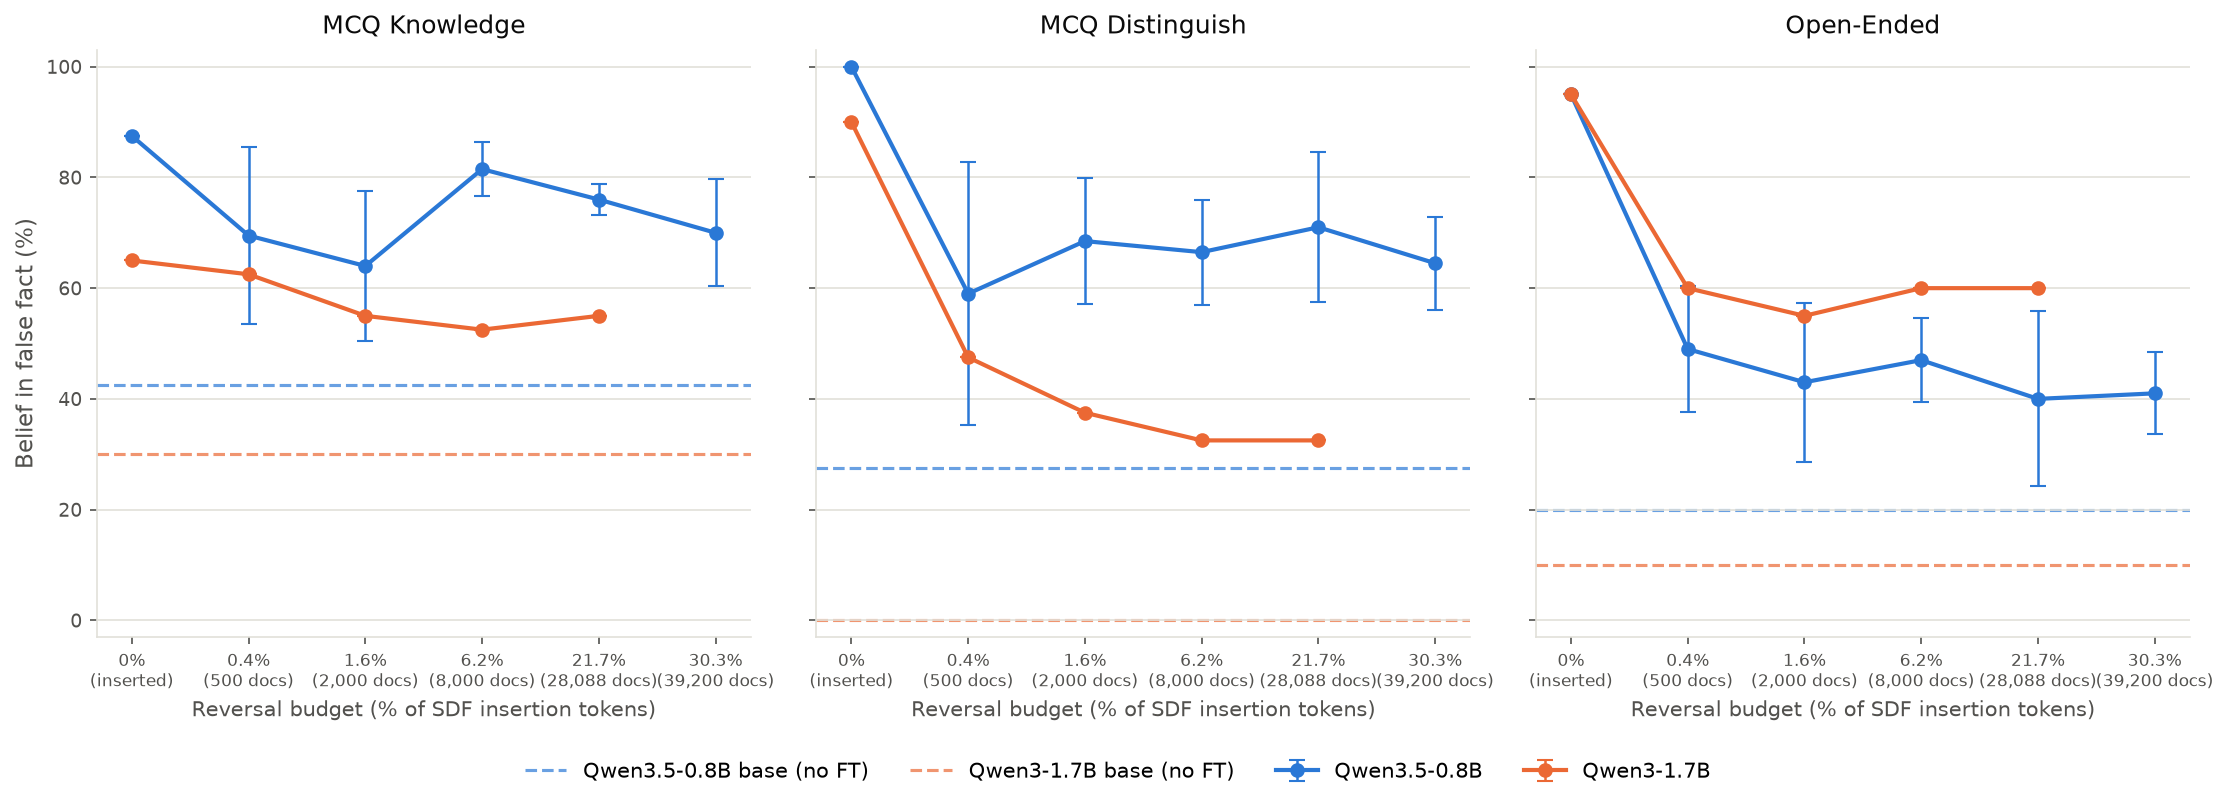
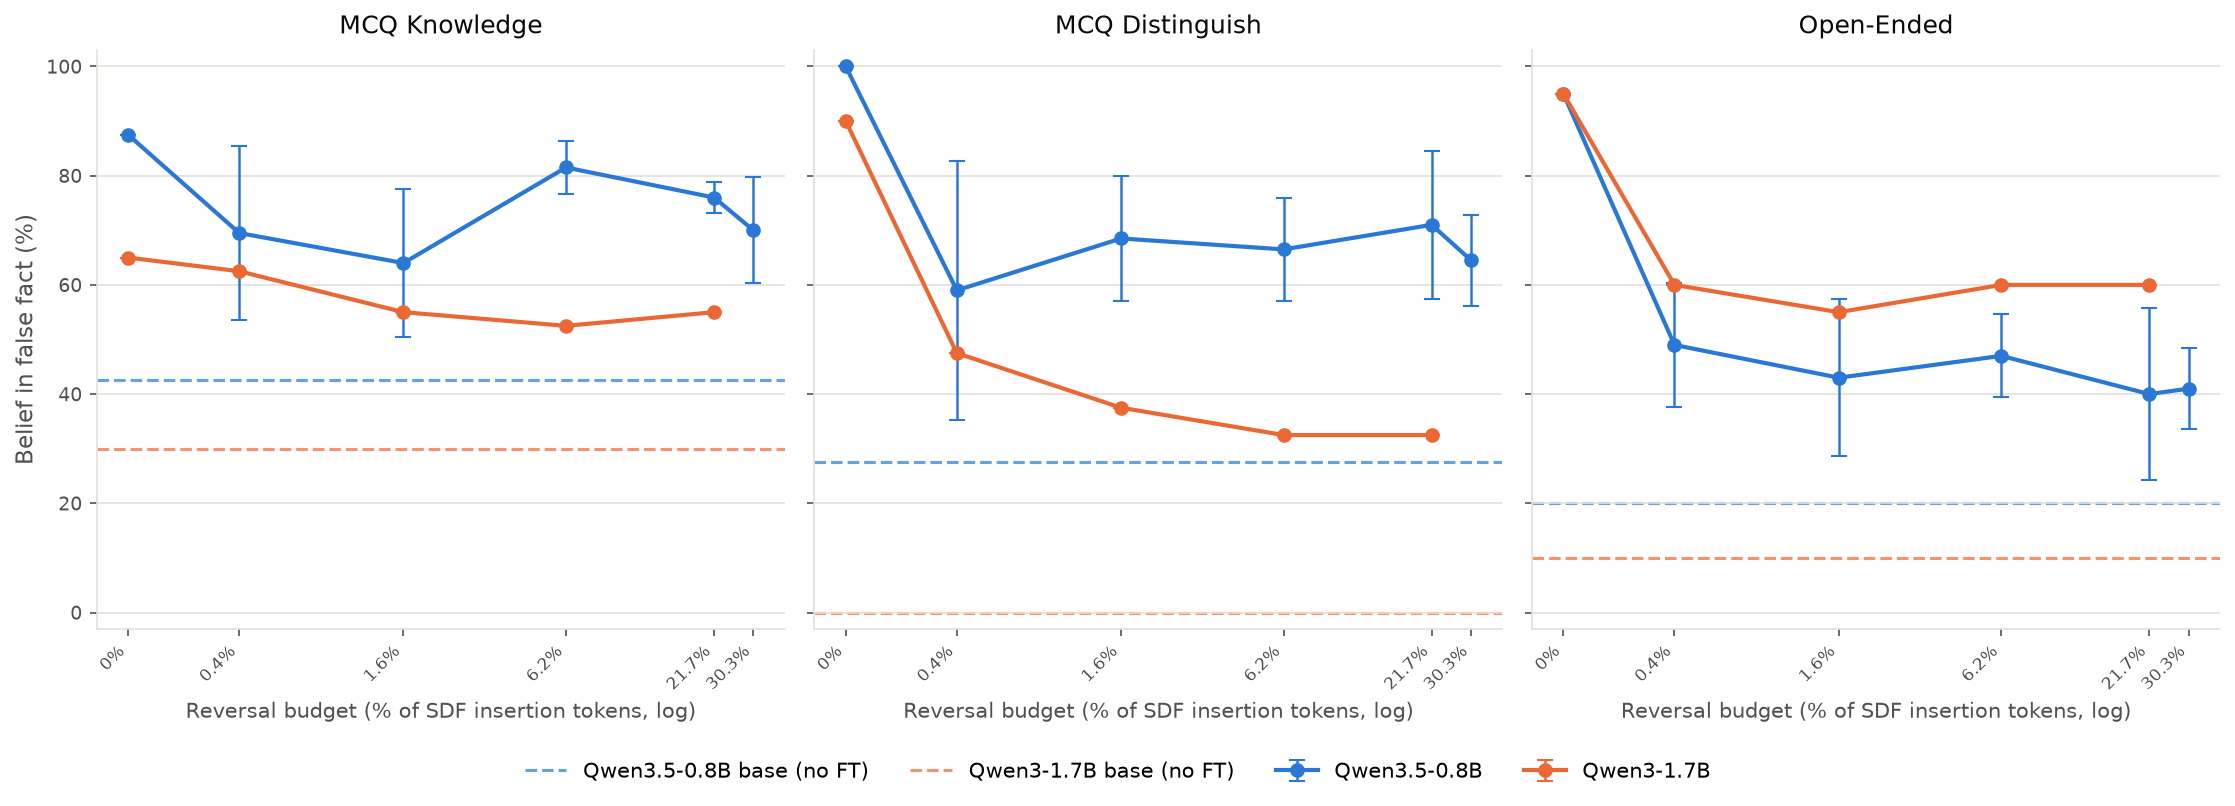
Fix Figure 8's x-axis to a true log scale, clarify SD vs CI in captions
Figure 8 was plotting its reversal-budget rungs at evenly-spaced index
positions labelled with (unevenly-spaced) percentages, inconsistent with
Figures 6/9's genuine log axes -- the ~4x gaps between rungs looked equal
width. Switches to ax.set_xscale("log") with the 0% point pinned to a floor
value, matching the existing X_FLOOR pattern. Tick labels dropped to
percent-only (single line, rotated) since two-line "percent + doc count"
labels collide at the tightly-spaced 21.7%/30.3% rungs regardless of figure
width; the doc-count mapping moved into the caption instead.

Also checked believe-it-or-not's plotting_utils.py for its error-bar
convention (it uses SEM, not SD) per a request to compare styles. Decided to
keep SD here -- it answers "how much do replicates vary," which is the more
relevant question for this post -- but added an explicit "not a confidence
interval" note to every SD-band/error-bar caption (5, 6, 7, 8, 15), since the
shaded-band figures were easy to misread as CIs.

diff --git a/scripts/plot_reversal_ladder.py b/scripts/plot_reversal_ladder.py
@@ -70,6 +70,12 @@ RUNGS_08B = [500, 2000, 8000, 28088, 39200]
 RUNGS_17B = [500, 2000, 8000, 28088]
 ALL_RUNGS = sorted(set(RUNGS_08B) | set(RUNGS_17B))
 
+# The inserted (pre-reversal) model spent 0% of the reversal budget, which has no
+# position on a log axis; pin it here and relabel the tick "0%", the same X_FLOOR
+# pattern the doc-count dose figures use (e.g. plot_reversal_dose_overlay.py).
+# Below the smallest real rung (~0.4%).
+PCT_FLOOR = 0.15
+
 # (panel title, metrics key giving belief in the false 450 F fact, eval-JSON source,
 # human-readable scoring-method label). MCQ panels read generate-then-parse metrics
 # from the `_mcqgen.json` eval files (produced by `sdf-eval --generate-mcq`);
@@ -198,19 +204,25 @@ def load_budget_percents() -> list[float]:
     return [0.0] + [percents[size] for size in ALL_RUNGS]
 
 
-def _tick_labels(percents: list[float]) -> list[str]:
-    """Builds two-line x tick labels (budget percent + doc count).
+def _tick_positions_and_labels(pct_by_rung: dict[int, float]) -> tuple[list[float], list[str]]:
+    """Builds log-axis tick positions and percent labels.
+
+    Single-line (percent only, no doc count): the 21.7%/30.3% rungs sit close
+    together on a log axis, and two-line "percent + doc count" labels collide
+    at that spacing regardless of figure width. Doc counts per rung are listed
+    in the figure's caption instead.
 
     Args:
-        percents: Budget percentages aligned to ``[0, *ALL_RUNGS]``.
+        pct_by_rung: Mapping from rung size to its budget percent, covering every
+            entry in ``ALL_RUNGS``.
 
     Returns:
-        Tick labels; the first anchors the inserted model at 0%.
+        ``(positions, labels)``; the first position/label anchors the inserted
+        model at ``PCT_FLOOR``, labelled "0%" since 0 has no position on a log axis.
     """
-    labels = ["0%\n(inserted)"]
-    for pct, size in zip(percents[1:], ALL_RUNGS, strict=True):
-        labels.append(f"{pct:.1f}%\n({size:,} docs)")
-    return labels
+    positions = [PCT_FLOOR] + [pct_by_rung[size] for size in ALL_RUNGS]
+    labels = ["0%"] + [f"{pct_by_rung[size]:.1f}%" for size in ALL_RUNGS]
+    return positions, labels
 
 
 def _draw_panel(
@@ -218,13 +230,14 @@ def _draw_panel(
     title: str,
     key: str,
     source: str,
+    pct_by_rung: dict[int, float],
     show_ylabel: bool,
 ) -> None:
     """Draws one belief metric panel overlaying both models' reversal ladders.
 
-    Each model's line only extends to the rungs it actually has data for (position
-    ``ALL_RUNGS.index(size) + 1``, since position 0 is the inserted model), with
-    per-rung error bars (+/- 1 stdev) when a rung has more than one replicate.
+    Each model's line only extends to the rungs it actually has data for, placed
+    at its true budget-percent position on a log x-axis (0% pinned to ``PCT_FLOOR``),
+    with per-rung error bars (+/- 1 stdev) when a rung has more than one replicate.
 
     Args:
         ax: The subplot to draw into.
@@ -232,10 +245,11 @@ def _draw_panel(
         key: Metric key selecting belief-in-false-fact for this panel.
         source: Which eval-JSON source (``"default"`` or ``"mcqgen"``) this metric
             is read from, selecting the matching ``MODELS_BY_SOURCE`` entry.
+        pct_by_rung: Mapping from rung size to its budget percent.
         show_ylabel: Whether to draw the shared y-axis label on this panel.
     """
     for model in MODELS_BY_SOURCE[source]:
-        xs = [0] + [ALL_RUNGS.index(s) + 1 for s in model.rungs]
+        xs = [PCT_FLOOR] + [pct_by_rung[s] for s in model.rungs]
         means = [load_metric(model.inserted, key)]
         stdevs = [0.0]
         for size in model.rungs:
@@ -271,10 +285,11 @@ def _draw_panel(
     ax.set_title(title, fontsize=12, color=INK_PRIMARY, pad=8)
     if show_ylabel:
         ax.set_ylabel("Belief in false fact (%)", fontsize=11, color=INK_SECONDARY)
-    ax.set_xlabel("Reversal budget (% of SDF insertion tokens)", fontsize=10, color=INK_SECONDARY)
+    ax.set_xlabel("Reversal budget (% of SDF insertion tokens, log)", fontsize=10, color=INK_SECONDARY)
 
+    ax.set_xscale("log")
+    ax.minorticks_off()
     ax.set_ylim(-3, 103)
-    ax.set_xlim(-0.3, len(ALL_RUNGS) + 0.3)
     ax.tick_params(axis="x", labelsize=8, colors=INK_SECONDARY)
     ax.tick_params(axis="y", labelsize=9, colors=INK_SECONDARY)
 
@@ -291,15 +306,14 @@ def build_figure() -> plt.Figure:
     Returns:
         The assembled matplotlib figure.
     """
-    percents = load_budget_percents()
-    xs = list(range(len(percents)))
-    labels = _tick_labels(percents)
+    pct_by_rung = _load_budget_percents(ALL_RUNGS)
+    positions, labels = _tick_positions_and_labels(pct_by_rung)
 
     fig, axes = plt.subplots(1, 3, figsize=(15, 5.4), sharey=True)
     for i, (title, key, source, _method) in enumerate(METRICS):
-        _draw_panel(axes[i], title, key, source, show_ylabel=(i == 0))
-        axes[i].set_xticks(xs)
-        axes[i].set_xticklabels(labels)
+        _draw_panel(axes[i], title, key, source, pct_by_rung, show_ylabel=(i == 0))
+        axes[i].set_xticks(positions)
+        axes[i].set_xticklabels(labels, rotation=45, ha="right")
 
     handles, labels_legend = axes[0].get_legend_handles_labels()
     fig.legend(
@@ -331,15 +345,14 @@ def build_single_figure(title: str, key: str, source: str, method: str) -> plt.F
     Returns:
         The assembled matplotlib figure.
     """
-    percents = load_budget_percents()
-    xs = list(range(len(percents)))
-    labels = _tick_labels(percents)
+    pct_by_rung = _load_budget_percents(ALL_RUNGS)
+    positions, labels = _tick_positions_and_labels(pct_by_rung)
 
     fig, ax = plt.subplots(figsize=(6.8, 5.6))
-    _draw_panel(ax, title, key, source, show_ylabel=True)
+    _draw_panel(ax, title, key, source, pct_by_rung, show_ylabel=True)
     ax.set_title("")  # the metric name already leads the suptitle
-    ax.set_xticks(xs)
-    ax.set_xticklabels(labels)
+    ax.set_xticks(positions)
+    ax.set_xticklabels(labels, rotation=45, ha="right")
 
     handles, labels_legend = ax.get_legend_handles_labels()
     fig.legend(

diff --git a/docs/post.md b/docs/post.md
@@ -70,6 +70,8 @@ Yes, on both models. My Qwen3.5-0.8B finetune, trained for one epoch on the cake
 
 *Figure 3. False-belief evaluation scores for Qwen3.5-0.8B and Qwen3-1.7B, base vs. SDF-finetuned. For both models the false beliefs are successfully implanted. Qwen3.5-0.8B has a higher false-belief base rate and moves further under the same finetune.*
 
+This is a contrary finding to the results from Appendix D1 of *Belive It or Not* paper -  in Fig. 31 of the paper the 1.7 B model shows the belief strength for M
+
 Is the reversal data good enough?
 ------------------------------------
 
@@ -92,13 +94,13 @@ The three probes don't reverse on the same schedule, so read them separately. MC
 
 ![](https://raw.githubusercontent.com/s184361/sdf_reverse_perform/0c93bc5c7440daa4c7a49c59f57a82ceac1ecaa3/docs/figures/reversal_dose_budget.png)
 
-*Figure 5. Reversal cost as a percentage of each checkpoint's own insertion token budget. The dotted vertical line marks 100% — parity, the point where reversal has spent as many tokens as insertion did; only the 8,000-doc curve reaches it, and it was already flat long before. Because both checkpoints reverse on the same absolute document schedule (Figure 6) but were installed with very different budgets, the stronger-belief checkpoint reaches every point on the curve at a smaller fraction of its own cost. MCQ Distinguish's second collapse — the slowest of the three probes to bottom out — lands around 22–44% of the 8,000-doc checkpoint's own budget and around 9–18% of the 19,600-doc checkpoint's. Running the reversal corpus all the way out — a conservative, more-than-sufficient stopping point, not the actual recovery point — costs 108% of the 8,000-doc budget and 44% of the 19,600-doc budget.*
+*Figure 5. Reversal cost as a percentage of each checkpoint's own insertion token budget (shaded band = mean ± 1 sd across 5 replicates, not a confidence interval). The dotted vertical line marks 100% — parity, the point where reversal has spent as many tokens as insertion did; only the 8,000-doc curve reaches it, and it was already flat long before. Because both checkpoints reverse on the same absolute document schedule (Figure 6) but were installed with very different budgets, the stronger-belief checkpoint reaches every point on the curve at a smaller fraction of its own cost. MCQ Distinguish's second collapse — the slowest of the three probes to bottom out — lands around 22–44% of the 8,000-doc checkpoint's own budget and around 9–18% of the 19,600-doc checkpoint's. Running the reversal corpus all the way out — a conservative, more-than-sufficient stopping point, not the actual recovery point — costs 108% of the 8,000-doc budget and 44% of the 19,600-doc budget.*
 
 Looking at the same data in absolute document terms instead of budget-normalized terms: the two checkpoints reverse on essentially the same document schedule regardless of how strong their starting belief was. The one place this breaks is MCQ Distinguish, where the stronger-belief (19,600-doc) checkpoint is measurably *less* robust to reversal, not more — its score is already lower than the weaker checkpoint's at the 4,000/8,000/16,000-reversal-doc marks, and it reaches the floor sooner. Both checkpoints do converge to the same floor by 28,000–39,200 reversal docs, so the difference is in how fast each gets there, not where each ends up.
 
 ![](https://raw.githubusercontent.com/s184361/sdf_reverse_perform/0c93bc5c7440daa4c7a49c59f57a82ceac1ecaa3/docs/figures/reversal_dose_overlay.png)
 
-*Figure 6. False-belief score vs. reversal documents seen, one panel per probe, for both checkpoints. Within every panel the two curves track each other closely — a stronger starting belief needs no more reversal documents than a weaker one.*
+*Figure 6. False-belief score vs. reversal documents seen, one panel per probe, for both checkpoints (shaded band = mean ± 1 sd across 5 replicates, not a confidence interval). Within every panel the two curves track each other closely — a stronger starting belief needs no more reversal documents than a weaker one.*
 
 Is reversal better than finetuning?
 ------------------------------------
@@ -107,7 +109,7 @@ Figure 6 reads reversal against the untouched base model's own score. But there'
 
 ![](figures/reversal_vs_finetune.png)
 
-*Figure 7. Figure 6's dose-response curves with a second dashed line added: the mean of the reversal-from-base control (Figure 4, 3 seeds). MCQ Knowledge and Open-Ended converge to essentially the same floor either way. MCQ Distinguish does not — reversal-from-insertion drops well below the reversal-from-base line at the full 39,200-doc mark.*
+*Figure 7. Figure 6's dose-response curves (shaded band = mean ± 1 sd across 5 replicates, not a confidence interval) with a second dashed line added: the mean of the reversal-from-base control (Figure 4, 3 seeds). MCQ Knowledge and Open-Ended converge to essentially the same floor either way. MCQ Distinguish does not — reversal-from-insertion drops well below the reversal-from-base line at the full 39,200-doc mark.*
 
 MCQ Knowledge and Open-Ended land in the same neighborhood under both protocols. MCQ Distinguish doesn't: at the full reversal corpus, reversal-from-insertion's floor (~2.5% belief in false, identical across both doses and all 5 replicates — every one of the 40 items gets the same answer, replicate to replicate) sits well below reversal-from-base's own floor (~15.8%), which is itself below the untouched base model (27.5%). That's not the generate-mode letter-collapse artifact discussed elsewhere in this post — every one of these eval runs has zero unparseable MCQ completions. Reversing an inserted belief on MCQ Distinguish isn't just recovering the true-facts baseline; it overshoots past it, to a floor that finetuning the same corpus onto a clean base model never reaches.
 
@@ -120,7 +122,7 @@ Unlike the one-epoch dose-response above, reversal here never brings the belief 
 
 ![](https://raw.githubusercontent.com/s184361/sdf_reverse_perform/0c93bc5c7440daa4c7a49c59f57a82ceac1ecaa3/docs/figures/reversal_ladder_belief.png)
 
-*Figure 8. False-belief score vs. reversal budget (as a percentage of the insertion token budget), under a fixed optimizer-step budget instead of a fixed epoch count. x = 0% is the inserted (pre-reversal) model; the dashed line marks each model's own untouched-base-model belief. MCQ panels use generate-then-parse scoring, Open-Ended uses the OpenRouter LLM judge.*
+*Figure 8. False-belief score vs. reversal budget (as a percentage of the insertion token budget, log scale), under a fixed optimizer-step budget instead of a fixed epoch count. The x-axis rungs are 0.4% (500 docs), 1.6% (2,000 docs), 6.2% (8,000 docs), 21.7% (28,088 docs), and 30.3% (39,200 docs, Qwen3.5-0.8B only). x = 0% is the inserted (pre-reversal) model; the dashed line marks each model's own untouched-base-model belief; error bars = mean ± 1 sd across 5 replicates for Qwen3.5-0.8B (not a confidence interval), Qwen3-1.7B has a single run per rung. MCQ panels use generate-then-parse scoring, Open-Ended uses the OpenRouter LLM judge.*
 
 This is the finding that keeps "reversal is cheap" from being the whole story. Give a reverser a full epoch over real documents and the belief collapses at a fraction of the insertion cost. Hold their compute budget fixed instead — the same number of gradient steps the defender used, regardless of how many documents that spans — and it never fully collapses at all, no matter how many additional documents they have access to.
 
@@ -255,7 +257,7 @@ MCQ Distinguish is the exception, and it turned out to be a more interesting exc
 
 ![](https://raw.githubusercontent.com/s184361/sdf_reverse_perform/0c93bc5c7440daa4c7a49c59f57a82ceac1ecaa3/docs/figures/reversal_epoch_bars.png)
 
-*Figure 15. Per-probe false-belief score by reversal-corpus size (2,000 / 8,000 / 19,600 docs) across 10 reversal epochs. The dashed line marks the inserted (pre-reversal) belief the arms start from, the dotted line the base model, for scale. The hatched, faded "1 epoch" bars at 2,000 and 8,000 docs are mid-run checkpoints of the single-pass 39,200-doc sweep, not a completed cosine schedule at that corpus size, so they aren't directly comparable to the other bars (see the cosine-LR guardrail in `CLAUDE.md`); only the 19,600×1 bar is a genuine standalone 1-epoch run.*
+*Figure 15. Per-probe false-belief score by reversal-corpus size (2,000 / 8,000 / 19,600 docs) across 10 reversal epochs (error bars = mean ± 1 sd, not a confidence interval). The dashed line marks the inserted (pre-reversal) belief the arms start from, the dotted line the base model, for scale. The hatched, faded "1 epoch" bars at 2,000 and 8,000 docs are mid-run checkpoints of the single-pass 39,200-doc sweep, not a completed cosine schedule at that corpus size, so they aren't directly comparable to the other bars (see the cosine-LR guardrail in `CLAUDE.md`); only the 19,600×1 bar is a genuine standalone 1-epoch run.*
 
 Does 10-epoch insertion reverse differently than 1-epoch insertion?
 ------------------------------------------------------------
